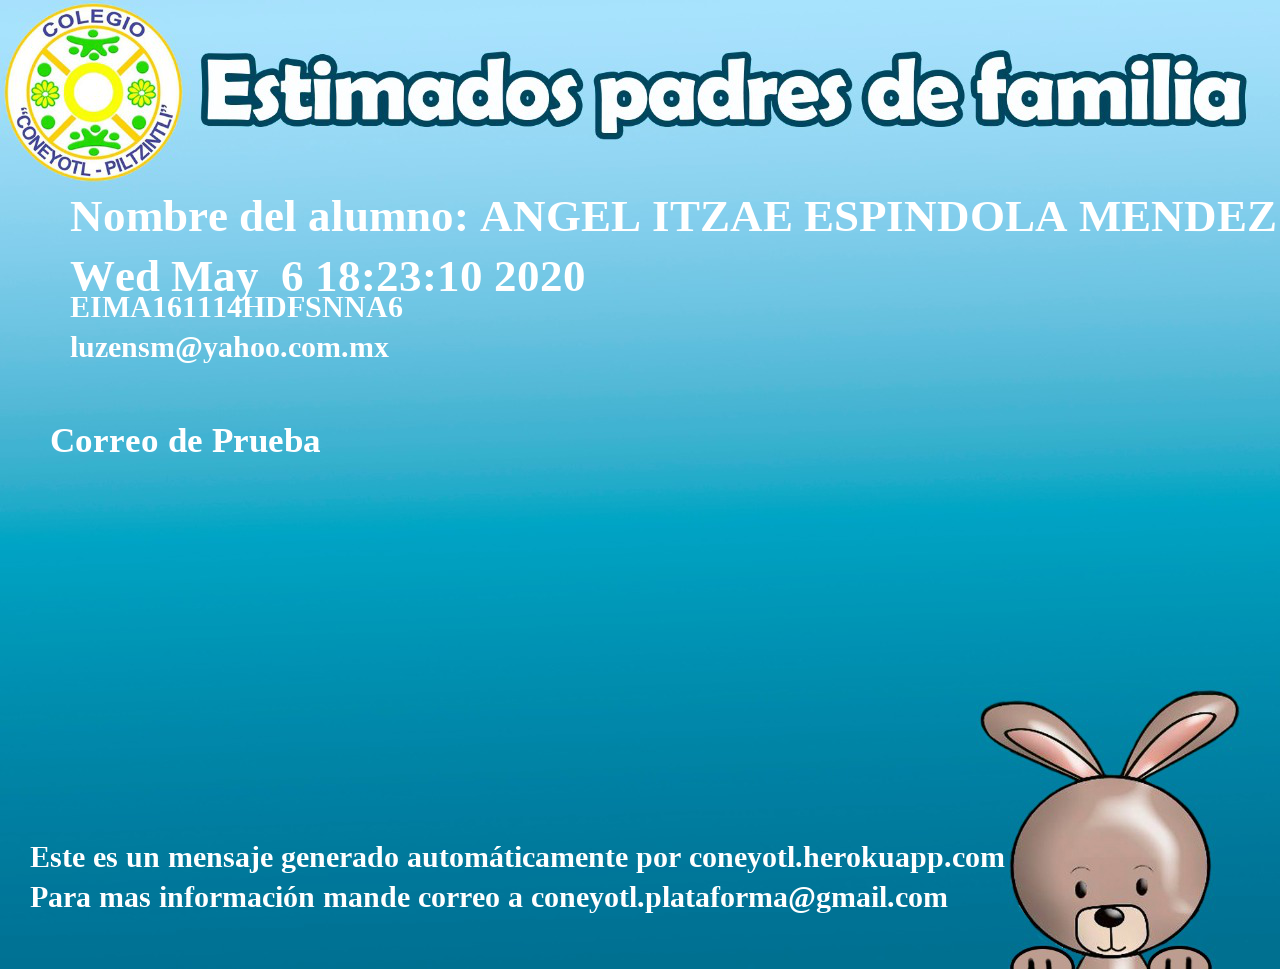
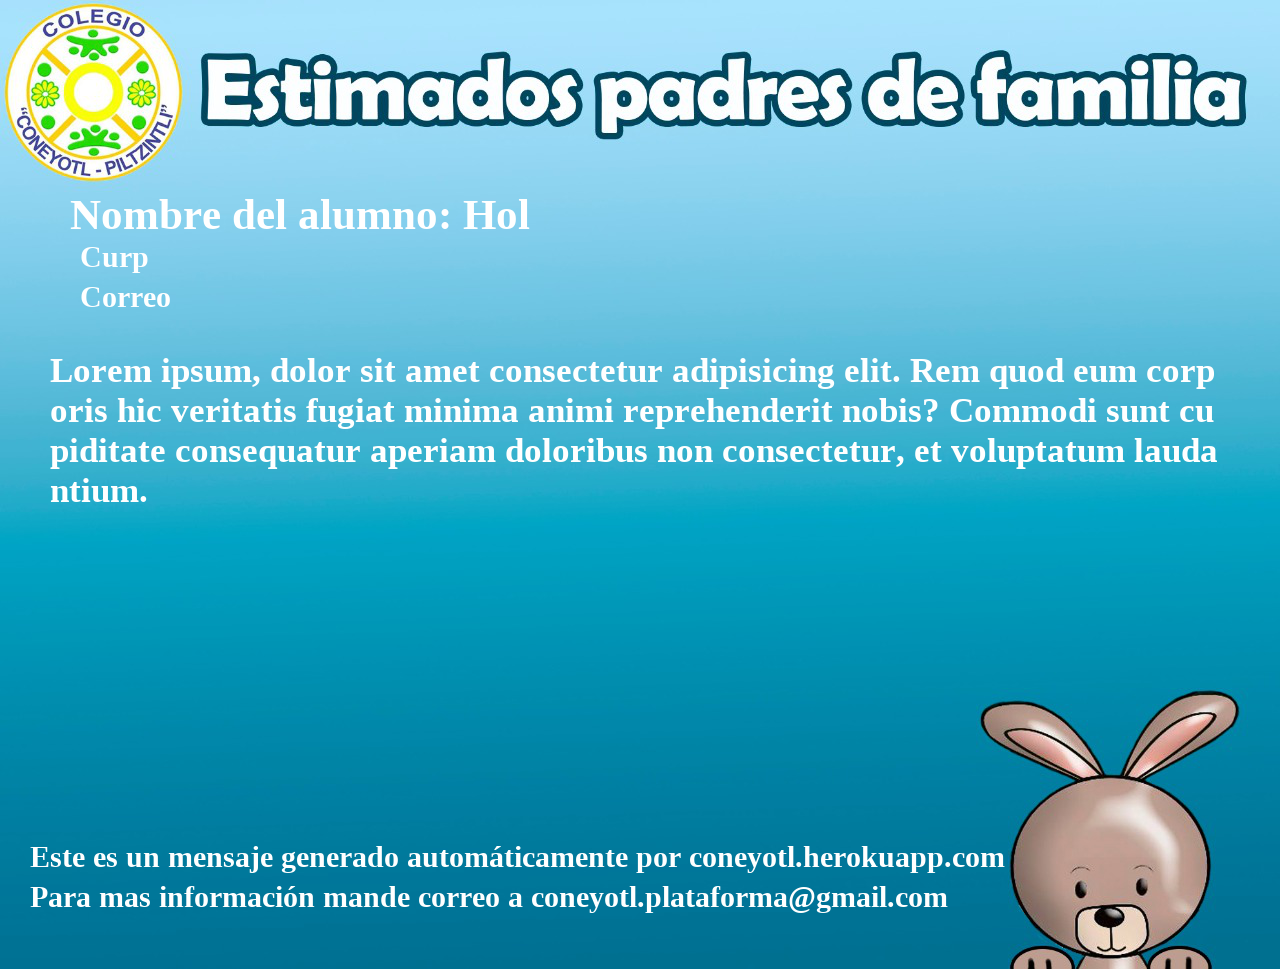
Cambios Finales a Los correos

Changed region(s): [[0.0312, 0.1858, 1.0, 0.5263]]

diff --git a/templates/correos.html b/templates/correos.html
@@ -27,7 +27,7 @@
                     <option value="1023">Todo Kinder</option>
                   </optgroup>
                 </select>
-                <label>Optgroups</label>
+                <label>Opciones de envío</label>
             </div>
             <div class="input-field col s12">
                 <select name="opcion">
@@ -37,10 +37,24 @@
                 <optgroup label="Con adjuntos">
                   <option value="1">Adjuntar Aviso</option>
               </select>
-                <label>Optgroups</label>
+                <label>Opciones de Adjuntar</label>
             </div>
-            Correo Destinatario: <input type="text" name="correo_destinatario"> Asunto: <input type="text" name="asunto"> Cuerpo del Correo:<input type="text" name="cuerpo">
-            <button class="btn waves-effect waves-light" type="submit" name="action">Guardar
+            <div class="input-field col s6">
+                <i class="material-icons prefix">account_circle</i>
+                <input id="icon_prefix" type="text" name="correo_destinatario" class="validate">
+                <label for="icon_prefix">Correo Destinatario</label>
+            </div>
+            <div class="input-field col s6">
+                <i class="material-icons prefix">email</i>
+                <input id="icon_email" type="text" name="asunto" class="validate">
+                <label for="icon_email">Asunto</label>
+            </div>
+            <div class="input-field col s12">
+                <i class="material-icons prefix">create</i>
+                <input id="icon_create" type="text" name="cuerpo" class="validate" class="validate">
+                <label id="icon_create" for="icon_email">Cuerpo del Correo</label>
+            </div>
+            <button class="btn waves-effect waves-light" type="submit" name="action">Enviar
                 <i class="material-icons right">send</i>
               </button>
         </form>
@@ -60,24 +74,35 @@
                     <option value="1000">Todos los Especialistas</option>
                   </optgroup>
                 </select>
-                <label>Optgroups</label>
+                <label>Opciones de envío</label>
             </div>
             <div class="input-field col s12">
                 <select name="opcion">
-              <optgroup label="Nada">
-                <option value="0">No Crear nada</option>
+              <optgroup label="Sin adjuntos">
+                <option value="0">Solo cuerpo de correo</option>
               </optgroup>
-              <optgroup label="Adjuntar">
+              <optgroup label="Con adjuntar">
                 <option value="1">Adjuntar Aviso</option>
-                <option value="2">Adjuntar reporte</option>
             </select>
-                <label>Optgroups</label>
+                <label>Opciones de Adjuntar</label>
             </div>
-            Correo Destinatario: <input type="text" name="correo_destinatario"> Asunto: <input type="text" name="asunto"> Cuerpo del Correo:<input type="text" name="cuerpo">
-            <button class="btn waves-effect waves-light" type="submit" name="action">Guardar
+            <div class="input-field col s6">
+                <i class="material-icons prefix">email</i>
+                <input id="icon_email2" type="text" name="asunto" class="validate">
+                <label for="icon_email2">Asunto</label>
+            </div>
+            <div class="input-field col s12">
+                <i class="material-icons prefix">create</i>
+                <input id="icon_create2" type="text" name="cuerpo" class="validate" class="validate">
+                <label id="icon_create2" for="icon_email">Cuerpo del Correo</label>
+            </div>
+            <button class="btn waves-effect waves-light" type="submit" name="action">Enviar
                 <i class="material-icons right">send</i>
               </button>
         </form>
+    </div>
+    <div class="row">
+        <a href="/admin" class="waves-effect waves-light btn-large">Regresar</a>
     </div>
 </div>
 <script>

diff --git a/templates/admin.html b/templates/admin.html
@@ -56,8 +56,11 @@
         </div>
     </div>
 </div>
-correos
-<a href="/correos">Enviar Correos</a>
+<div class="container">
+    <h2 class="center"> Correos</h2>
+    <a href="/correos" class="waves-effect waves-light btn-large"><i class="material-icons left">local_library</i>Enviar Correos</a>
+</div>
+
 
 <div>
     <h2>Ver Pagos</h2>

diff --git a/generador_img.py b/generador_img.py
@@ -5,7 +5,7 @@ def generar_imagen(nombre, apellido_p, apellido_m,mensaje, curp, correo):
     img=Image.open("static/img/plantilla.jpeg")
     draw = ImageDraw.Draw(img)
     ###Definir la uente
-    font = ImageFont.truetype("static/fonts/LiberationSerif-Bold2.ttf",45)#('/app/.heroku/python/lib/python3.7/site-packages/PIL/LiberationSerif-Bold.ttf', 50) #ImageFont.load_default()
+    font = ImageFont.truetype("static/fonts/LiberationSerif-Bold2.ttf",43)#('/app/.heroku/python/lib/python3.7/site-packages/PIL/LiberationSerif-Bold.ttf', 50) #ImageFont.load_default()
     font2= ImageFont.truetype("static/fonts/LiberationSerif-Bold2.ttf",35)#('/app/.heroku/python/lib/python3.7/site-packages/PIL/LiberationSerif-Bold.ttf', 35) #ImageFont.load_default()
     font3= ImageFont.truetype('static/fonts/LiberationSerif-Bold2.ttf',30)#('/app/.heroku/python/lib/python3.7/site-packages/PIL/LiberationSerif-Bold.ttf', 30) #ImageFont.load_default()
     font4= ImageFont.truetype('static/fonts/LiberationSerif-Bold2.ttf',30)#('/app/.heroku/python/lib/python3.7/site-packages/PIL/LiberationSerif-Bold.ttf', 30) #ImageFont.load_default()
@@ -15,25 +15,25 @@ def generar_imagen(nombre, apellido_p, apellido_m,mensaje, curp, correo):
     pie2 = "Para mas información mande correo a coneyotl.plataforma@gmail.com"
     encabezado = "Nombre del alumno: " + nombre+ " " + apellido_p + " " +apellido_m
     ###Fecha
-    formatoFecha = time.ctime()
+    #formatoFecha = time.ctime()
     ###Encabezado
     draw.text((70,190), encabezado, fill="white", font=font)
-    draw.text((70,250), formatoFecha, fill="white", font=font)
-    draw.text((70,290), curp, fill="white", font=font4)
-    draw.text((70,330), correo, fill="white", font=font4)
-    tam = 380
+    #draw.text((70,250), formatoFecha, fill="white", font=font)
+    draw.text((80,240), curp, fill="white", font=font4)
+    draw.text((80,280), correo, fill="white", font=font4)
+    tam = 350
     ###Mensaje
     if len(mensaje) <= 60:
-        draw.text((50,420), mensaje[0:60], fill="white", font=font2)
+        draw.text((50,tam), mensaje[0:60], fill="white", font=font2)
     if len(mensaje) > 60:
-        draw.text((50,tam), mensaje[0:65], fill="white", font=font2)
-        draw.text((50,tam + 40), mensaje[65:130], fill="white", font=font2)
-        draw.text((50,tam + 80), mensaje[130:195], fill="white", font=font2)
-        draw.text((50,tam + 120), mensaje[195:260], fill="white", font=font2)
-        draw.text((50,tam + 160), mensaje[260:325], fill="white", font=font2)
-        draw.text((50,tam + 200), mensaje[325:390], fill="white", font=font2)
-        draw.text((50,tam + 240), mensaje[390:455], fill="white", font=font2)                
-        draw.text((50,tam + 280), mensaje[455:520], fill="white", font=font2)                
+        draw.text((50,tam), mensaje[0:75], fill="white", font=font2)
+        draw.text((50,tam + 40), mensaje[75:150], fill="white", font=font2)
+        draw.text((50,tam + 80), mensaje[150:225], fill="white", font=font2)
+        draw.text((50,tam + 120), mensaje[225:300], fill="white", font=font2)
+        draw.text((50,tam + 160), mensaje[300:375], fill="white", font=font2)
+        draw.text((50,tam + 200), mensaje[375:450], fill="white", font=font2)
+        draw.text((50,tam + 240), mensaje[525:600], fill="white", font=font2)                
+        draw.text((50,tam + 280), mensaje[600:675], fill="white", font=font2)                
     #draw.text((50,500), cadena, fill="white", font=font)
     #draw.text((50,540), cadena, fill="white", font=font)
     ##Pide de página
@@ -41,4 +41,5 @@ def generar_imagen(nombre, apellido_p, apellido_m,mensaje, curp, correo):
     draw.text((30,880), pie2, fill="white", font=font3)
     #img.show()
     img.save('nuevo.png')
-#generar_imagen('Hol','','','asdasdsadasdasdasdasdasdsa','Curp', 'Correo')
+cade = "Lorem ipsum, dolor sit amet consectetur adipisicing elit. Rem quod eum corporis hic veritatis fugiat minima animi reprehenderit nobis? Commodi sunt cupiditate consequatur aperiam doloribus non consectetur, et voluptatum laudantium." 
+generar_imagen('Hol','','',cade,'Curp', 'Correo')

diff --git a/automatizar.py b/automatizar.py
@@ -9,14 +9,16 @@ def automatico(grado, cuerpo, asunto):
     for i in lista:
         img.generar_imagen(i[0],i[1],i[2], cuerpo,i[3],i[4])
         print("Mensaje enviado")
-        enviar.enviar_correo_img('galigaribaldi0@gmail.com', asunto)
+        #enviar.enviar_correo_img('galigaribaldi0@gmail.com', asunto)
+        enviar.enviar_correo_img(i[4], asunto)
 
 ##Automatizacion de correos solo texto a alumnos
 def automatico_txt(grado, cuerpo, asunto):
     lista = coneccion.correos_estudiante(grado)
     for i in lista:
         print("Mensaje enviado")
-        enviar.enviar_correo('galigaribaldi0@gmail.com',cuerpo ,asunto)    
+        enviar.enviar_correo('galigaribaldi0@gmail.com',cuerpo ,asunto)
+        enviar.enviar_correo(i[4], cuerpo ,asunto)    
 #######################################################################
 
 #########################Profesores#######################################
@@ -26,16 +28,16 @@ def automatico_prof_grado(cuerpo, asunto):
     for i in lista:
         img.generar_imagen(i[0],i[1],i[2], cuerpo,i[3],i[4])
         print("Mensaje enviado")
-        enviar.enviar_correo_img('galigaribaldi0@gmail.com', asunto)        
-        #enviar.enviar_correo_img(i[4], asunto)
+        #enviar.enviar_correo_img('galigaribaldi0@gmail.com', asunto)        
+        enviar.enviar_correo_img(i[4], asunto)
 
 ##Automatizacion de correos con solo texto a profesores de grado
 def automatico_prof_grado_txt(cuerpo, asunto):
     lista = coneccion.correos_profesor_grado()
     for i in lista:
         print("Mensaje enviado")
-        enviar.enviar_correo('galigaribaldi0@gmail.com',cuerpo ,asunto)    
-        #enviar.enviar_correo_img(i[4], asunto)
+        #enviar.enviar_correo('galigaribaldi0@gmail.com',cuerpo ,asunto)    
+        enviar.enviar_correo_img(i[4],cuerpo ,asunto)
 
 ##Automatizacion de Correos con imahenes a profesores Especialistas
 def automatico_prof_especialistas(cuerpo, asunto):
@@ -43,8 +45,8 @@ def automatico_prof_especialistas(cuerpo, asunto):
     for i in lista:
         img.generar_imagen(i[0],i[1],i[2], cuerpo,i[3],i[4])
         print("Mensaje enviado")
-        enviar.enviar_correo_img('galigaribaldi0@gmail.com', asunto)        
-        #enviar.enviar_correo_img(i[4], asunto)
+        #enviar.enviar_correo_img('galigaribaldi0@gmail.com', asunto)        
+        enviar.enviar_correo_img(i[4], asunto)
 
 ##Automatizacion de Correos con texto a profesores Especialistas
 def automatico_prof_especialistas_txt(cuerpo, asunto):
@@ -52,5 +54,6 @@ def automatico_prof_especialistas_txt(cuerpo, asunto):
     for i in lista:
         img.generar_imagen(i[0],i[1],i[2], cuerpo,i[3],i[4])
         print("Mensaje enviado")
-        enviar.enviar_correo('galigaribaldi0@gmail.com',cuerpo ,asunto)    
+        #enviar.enviar_correo('galigaribaldi0@gmail.com',cuerpo ,asunto)
+        enviar.enviar_correo(i[4],cuerpo ,asunto)    
 #######################################################################

diff --git a/app.py b/app.py
@@ -1095,7 +1095,7 @@ def enviar_correos():
                 job = q.enqueue(automatico_prof_especialistas_txt, 'Cuerpo', 'Asunto')
             if opcion == '1':
                 job = q.enqueue(automatico_prof_especialistas, 'Cuerpo', 'Asunto')
-        flash("Mensaje Enviado Por favor espere 3 minutos para enviar otro correo "+str(job))
+        flash("Mensaje Enviado Por favor espere 3 minutos para enviar otro correo ")
         return redirect(url_for("correos"))
 ################3
 if __name__ == '__main__':
